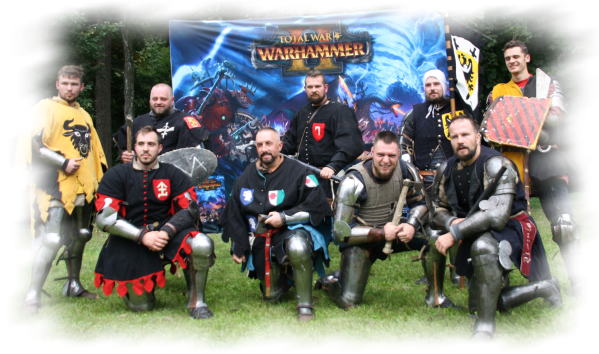
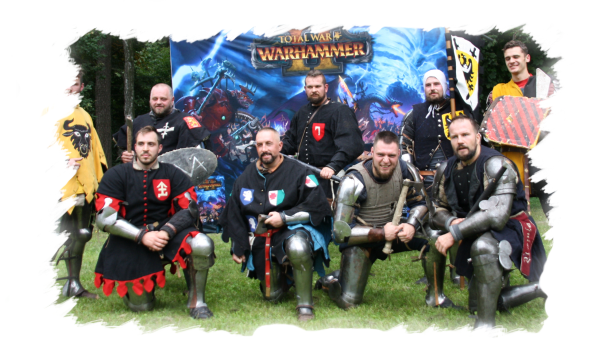
dodanie zdjęć w sekcji liga

Changed region(s): [[0.0301, 0.0, 0.9917, 0.9944]]

diff --git a/src/Sections/Liga.js b/src/Sections/Liga.js
@@ -1,4 +1,6 @@
 import React from 'react';
+import ligaFirst from '../img/liga400.png';
+import ligaSecond from '../img/liga401.png';
 
 class Liga extends React.Component
 {
@@ -15,6 +17,8 @@ class Liga extends React.Component
                             Eliminacje złożone są z 5 turniejów, organizowanych od września do marca, na terenie całej
                             Polski.
                         </span><br/><br/>
+                        <img src={ligaSecond} alt="Liga" style={{width: 100+'%'}}/>
+                        <br/><br/>
                         <span>
                             Na podstawie ligowych spotkań Kapitan Reprezentacji – w latach 2017-2019
                             Sławomir Smolarczyk (von Massow) – powołuje do Kadry zawodników, którzy będą
@@ -36,6 +40,7 @@ class Liga extends React.Component
                                 <li>starcie jest przerywane jeżeli przewaga jednej z drużyn wynosi 3 zawodników do 1.</li>
                             </ul>
                         </span>
+                        <img src={ligaFirst} alt="Liga" style={{width: 100+'%'}}/>
                     </div>
                 </div>
             </div>
